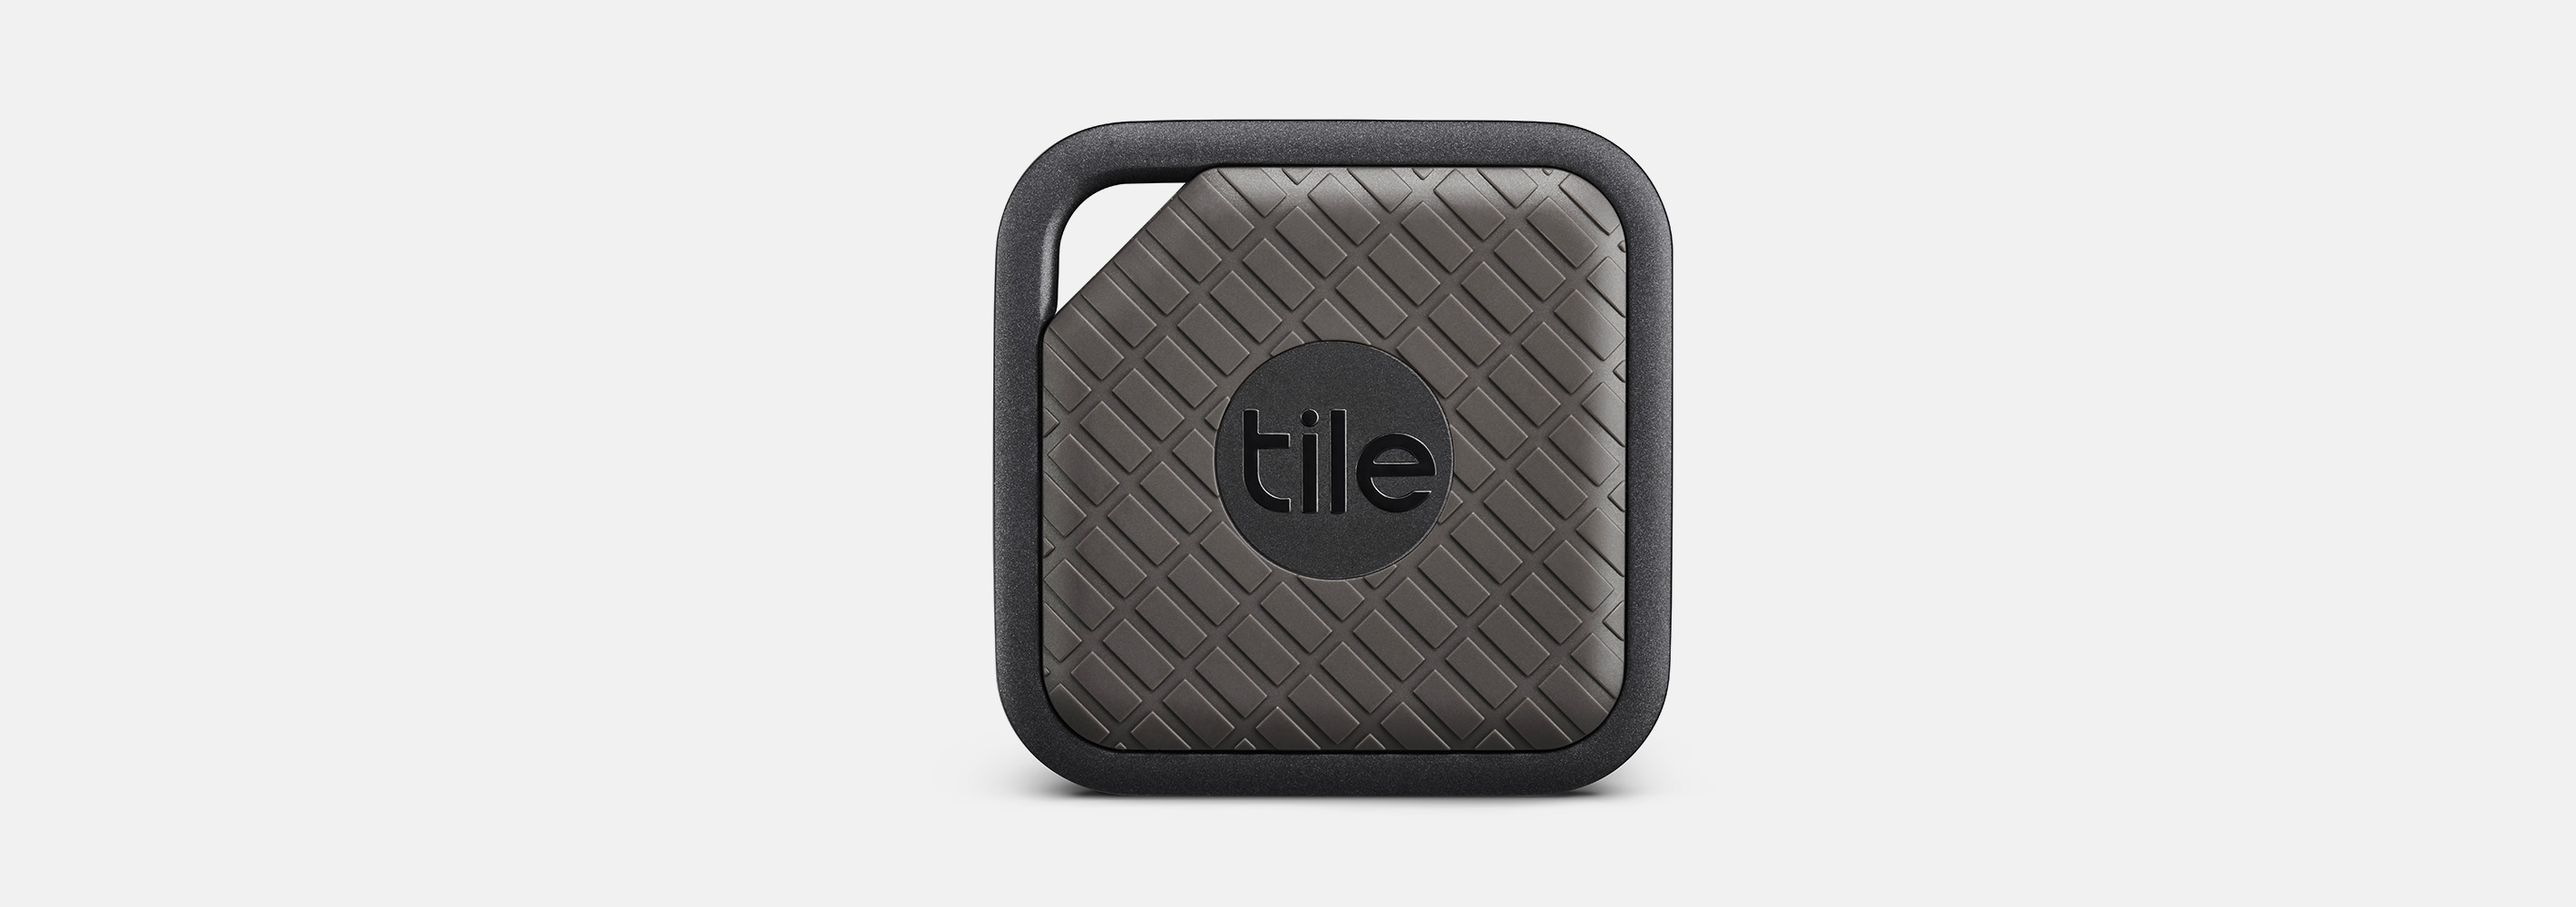
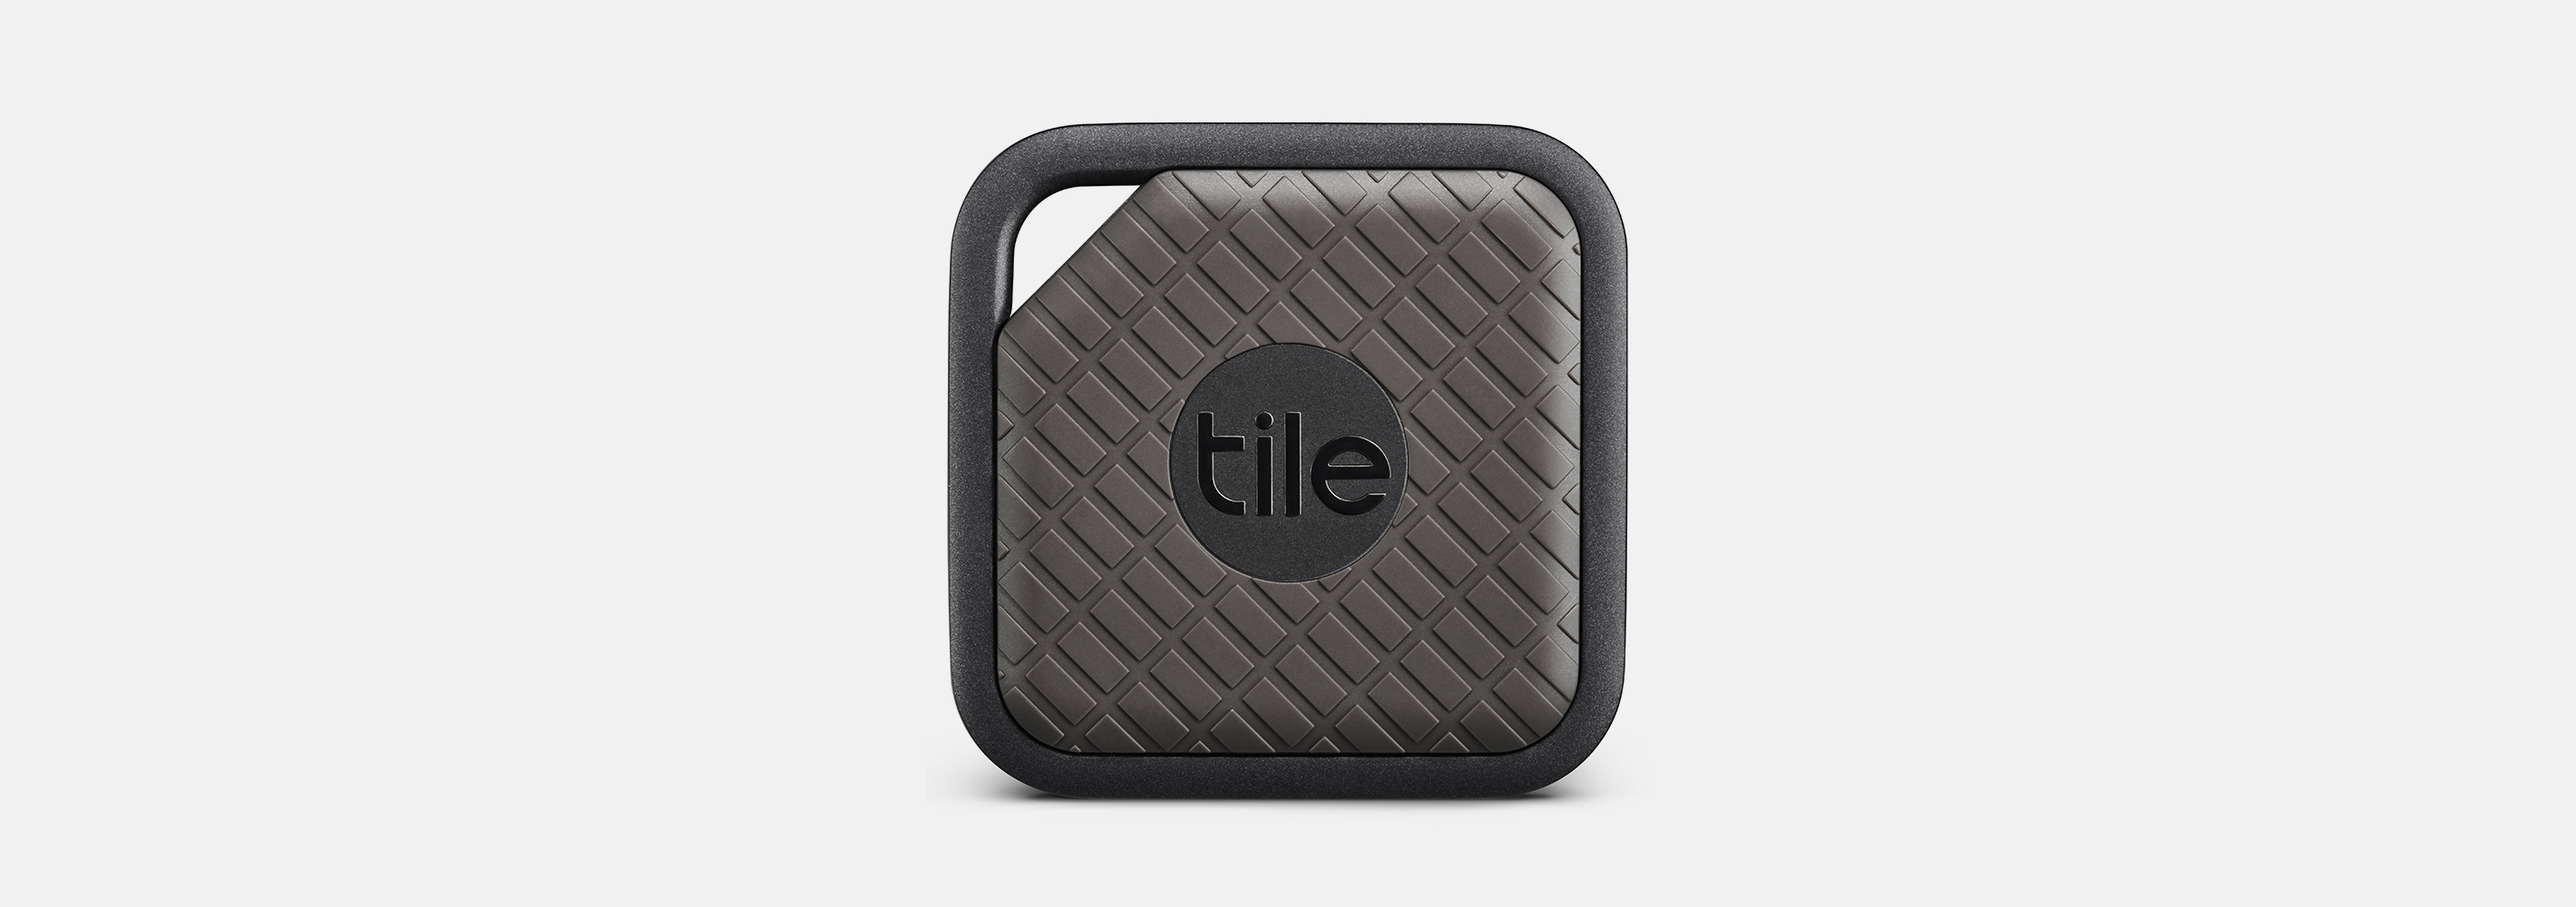
Fixing images that got borked.

Changed region(s): [[0.3408, 0.124, 0.6507, 0.899]]

diff --git a/src/data/buyers-guide-products.js b/src/data/buyers-guide-products.js
@@ -342,7 +342,7 @@ module.exports = {
     "privacy-policy": "https://nest.com/legal/privacy-statement/"
   },
   "nestcamoutdoorsecuritycamera": {
-    "img": "/assets/buyers-guide/products/nest-cam-outdoor.png",
+    "img": "/assets/buyers-guide/products/nest-cam-outdoor.jpg",
     "product": "product_20_title",
     "blerb": "product_20_blurb",
     "worst-case": "product_20_worst_case",
@@ -414,7 +414,7 @@ module.exports = {
     "privacy-policy": "http://www.irobot.com/Legal/Documents.aspx"
   },
   "hiku": {
-    "img": "/assets/buyers-guide/products/hiku.png",
+    "img": "/assets/buyers-guide/products/hiku.jpg",
     "product": "product_24_title",
     "blerb": "product_24_blurb",
     "worst-case": "product_24_worst_case",
@@ -846,7 +846,7 @@ module.exports = {
     "privacy-policy": "https://www.mocacare.com/privacy.html"
   },
   "spire": {
-    "img": "/assets/buyers-guide/products/spire.png",
+    "img": "/assets/buyers-guide/products/spire.jpg",
     "product": "product_48_title",
     "blerb": "product_48_blurb",
     "worst-case": "product_48_worst_case",
@@ -918,7 +918,7 @@ module.exports = {
     "privacy-policy": "https://micoach.adidas.com/content/PrivacyPolicy"
   },
   "petcubeplay": {
-    "img": "/assets/buyers-guide/products/Petcube-Play_White-1.png",
+    "img": "/assets/buyers-guide/products/Petcube-Play_White-1.jpg",
     "product": "product_52_title",
     "blerb": "product_52_blurb",
     "worst-case": "product_52_worst_case",
@@ -958,7 +958,7 @@ module.exports = {
     "product": "product_54_title",
     "blerb": "product_54_blurb",
     "worst-case": "product_54_worst_case",
-    "url": "https://www.weber.com/US/en/accessories/igrill-thermometers-timers/igrill-3",
+    "url": "https://www.weber.com/US/en/accessories/igrill-thermometers-timers/igrill-2",
     "price": "$99",
     "company": "Weber",
     "camera": true,

diff --git a/src/data/buyers-guide-categories.js b/src/data/buyers-guide-categories.js
@@ -41,7 +41,8 @@ module.exports = {
     "nestprotect",
     "nestcamoutdoorsecuritycamera",
     "nestcamindoorsecuritycamera",
-    "ecobee4thermostat"
+    "ecobee4thermostat",
+    "hatchbabyrest"
   ],
   "gadgetsgizmos": [
     "dysonpurehotcoollink",
